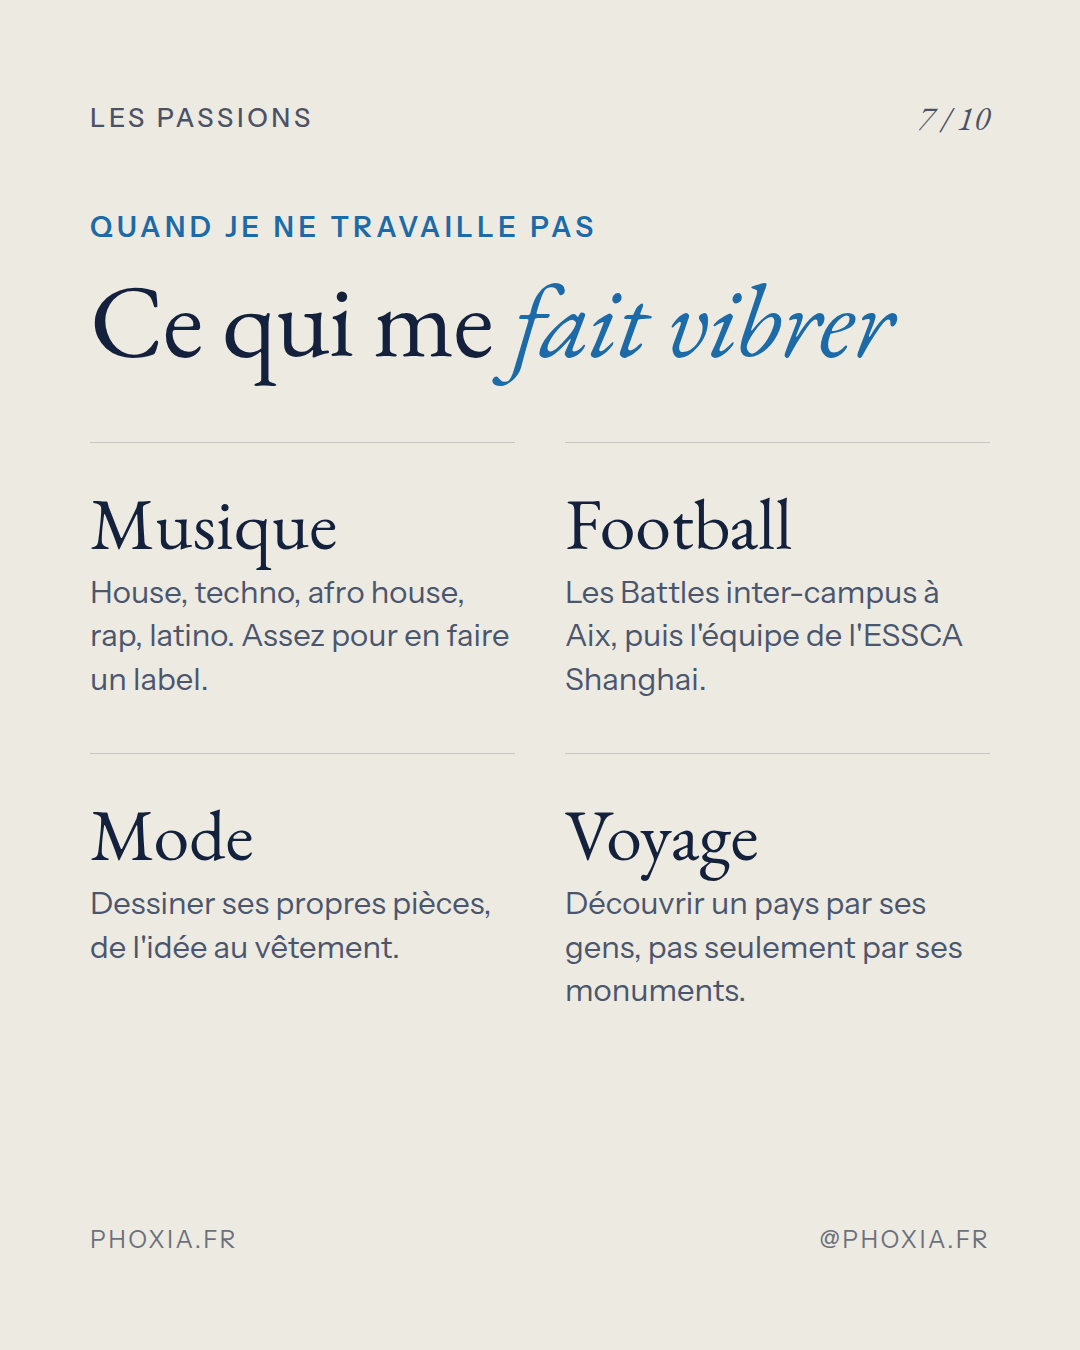
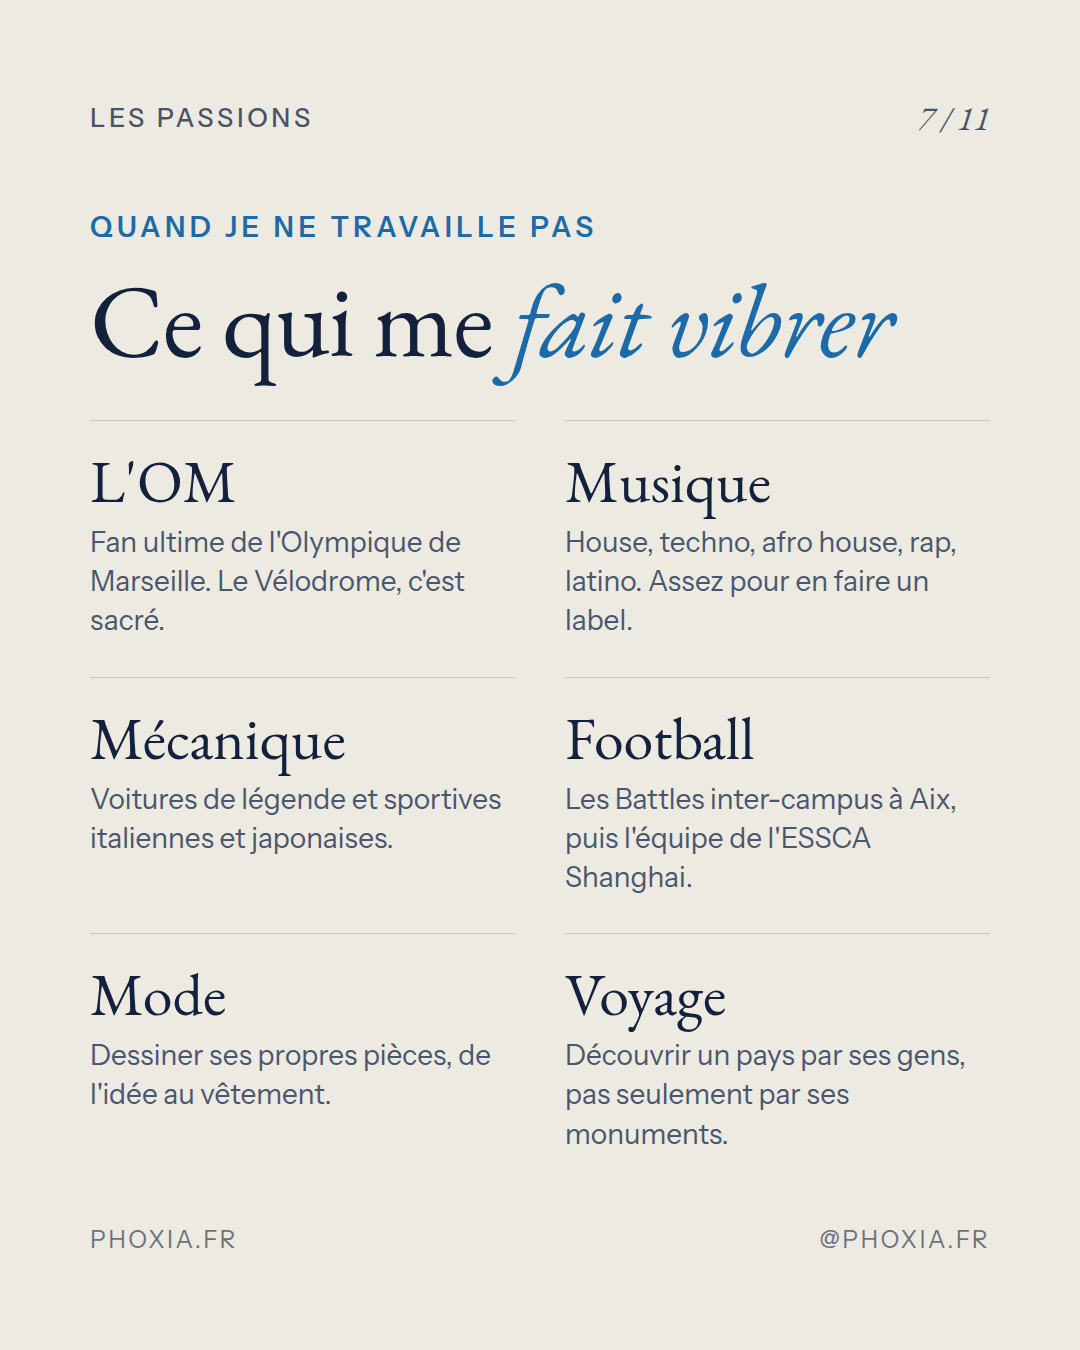
Carrousel Instagram : passions OM et mécanique, slide des rêves, objectif liberté
Claude-Session: https://claude.ai/code/session_01TMTnMu3aN2J2VFEdaEERUD

diff --git a/instagram/presentation-mathieu/carrousel.html b/instagram/presentation-mathieu/carrousel.html
@@ -62,7 +62,7 @@
   #s5 h2 { font-size: 92px; }
   #s4 .liste { margin-top: 44px; gap: 22px; }
   #s4 .ligne { padding-top: 22px; }
-  #s9 .liste { margin-top: 40px; gap: 24px; }
+  #s10 .liste { margin-top: 40px; gap: 24px; }
   .projet { background: rgba(237,234,225,.07); border: 1.5px solid rgba(237,234,225,.18); border-radius: 26px; padding: 30px 32px; }
   .projet img { width: 92px; height: 92px; border-radius: 20px; object-fit: cover; }
   .projet h3 { font-family: var(--serif); font-weight: 500; font-size: 54px; margin-top: 18px; line-height: 1; }
@@ -79,10 +79,14 @@
   .pays { font-size: 27px; line-height: 1.55; margin-top: 30px; opacity: .8; }
 
   /* Passions */
-  .passions { display: grid; grid-template-columns: 1fr 1fr; gap: 0 50px; margin-top: 70px; }
-  .passion { padding: 44px 0 52px; border-top: 1.5px solid rgba(20,33,61,.18); }
-  .passion b { font-family: var(--serif); font-size: 72px; font-weight: 400; line-height: 1; display: block; }
-  .passion span { font-size: 31px; line-height: 1.4; display: block; margin-top: 12px; color: var(--encre-doux); }
+  .passions { display: grid; grid-template-columns: 1fr 1fr; gap: 0 50px; margin-top: 48px; }
+  .passion { padding: 30px 0 36px; border-top: 1.5px solid rgba(20,33,61,.18); }
+  .passion b { font-family: var(--serif); font-size: 60px; font-weight: 400; line-height: 1; display: block; }
+  .passion span { font-size: 28px; line-height: 1.4; display: block; margin-top: 12px; color: var(--encre-doux); }
+
+  .slide--rouge { background: #0E1830; }
+  #s8 h2 em { color: #E8946B; }
+  #s8 .ligne b { color: #E8946B; }
 
   /* Citation */
   blockquote { font-family: var(--serif); font-style: italic; font-size: 56px; line-height: 1.15; margin-top: 44px; padding-left: 40px; border-left: 4px solid var(--azur-clair); }
@@ -104,7 +108,7 @@
 <section class="slide couv" id="s1">
   <img src="../../assets/img/equipe/mathieu.jpg" alt="Mathieu Barthélémy">
   <div class="contenu">
-    <div class="haut"><span>@phoxia.fr</span><span class="num">1 / 10</span></div>
+    <div class="haut"><span>@phoxia.fr</span><span class="num">1 / 11</span></div>
     <h1>Qui se cache derrière <em>Phoxia&nbsp;?</em></h1>
     <p class="intro">Mathieu Barthélémy, fondateur. Parcours, projets, voyages et les raisons d'une aventure entrepreneuriale.</p>
     <div class="bas"><span>Marseille</span><span>Glissez →</span></div>
@@ -113,7 +117,7 @@
 
 <!-- 2. Parcours -->
 <section class="slide" id="s2">
-  <div class="haut"><span>Parcours</span><span class="num">2 / 10</span></div>
+  <div class="haut"><span>Parcours</span><span class="num">2 / 11</span></div>
   <p class="kicker">Trois campus, trois continents</p>
   <h2>Un parcours <em>tourné vers le large</em></h2>
   <div class="liste">
@@ -127,7 +131,7 @@
 
 <!-- 3. Terrain -->
 <section class="slide slide--sable" id="s3">
-  <div class="haut"><span>Parcours</span><span class="num">3 / 10</span></div>
+  <div class="haut"><span>Parcours</span><span class="num">3 / 11</span></div>
   <p class="kicker">Avant l'IA, le terrain</p>
   <h2>Indépendant <em>depuis 2017</em></h2>
   <p class="intro">50 000 € de chiffre d'affaires générés en indépendant. Une pratique construite mission après mission.</p>
@@ -141,7 +145,7 @@
 
 <!-- 4. Intérêts -->
 <section class="slide" id="s4">
-  <div class="haut"><span>Intérêts dans la vie</span><span class="num">4 / 10</span></div>
+  <div class="haut"><span>Intérêts dans la vie</span><span class="num">4 / 11</span></div>
   <p class="kicker">Ce qui me fait avancer</p>
   <h2>Comprendre, <em>relier,</em> transmettre</h2>
   <div class="liste">
@@ -155,7 +159,7 @@
 
 <!-- 5. Projets -->
 <section class="slide" id="s5">
-  <div class="haut"><span>Les projets</span><span class="num">5 / 10</span></div>
+  <div class="haut"><span>Les projets</span><span class="num">5 / 11</span></div>
   <p class="kicker">Au-delà de Phoxia</p>
   <h2>Quatre univers, <em>un même cap</em></h2>
   <div class="projets">
@@ -169,7 +173,7 @@
 
 <!-- 6. Voyages -->
 <section class="slide slide--blanc" id="s6">
-  <div class="haut"><span>Les voyages</span><span class="num">6 / 10</span></div>
+  <div class="haut"><span>Les voyages</span><span class="num">6 / 11</span></div>
   <p class="kicker">Phavels</p>
   <h2><em>16 pays,</em> 4 continents</h2>
   <div class="grille">
@@ -186,11 +190,13 @@
 
 <!-- 7. Passions -->
 <section class="slide slide--sable" id="s7">
-  <div class="haut"><span>Les passions</span><span class="num">7 / 10</span></div>
+  <div class="haut"><span>Les passions</span><span class="num">7 / 11</span></div>
   <p class="kicker">Quand je ne travaille pas</p>
   <h2>Ce qui me <em>fait vibrer</em></h2>
   <div class="passions">
+    <div class="passion"><b>L'OM</b><span>Fan ultime de l'Olympique de Marseille. Le Vélodrome, c'est sacré.</span></div>
     <div class="passion"><b>Musique</b><span>House, techno, afro house, rap, latino. Assez pour en faire un label.</span></div>
+    <div class="passion"><b>Mécanique</b><span>Voitures de légende et sportives italiennes et japonaises.</span></div>
     <div class="passion"><b>Football</b><span>Les Battles inter-campus à Aix, puis l'équipe de l'ESSCA Shanghai.</span></div>
     <div class="passion"><b>Mode</b><span>Dessiner ses propres pièces, de l'idée au vêtement.</span></div>
     <div class="passion"><b>Voyage</b><span>Découvrir un pays par ses gens, pas seulement par ses monuments.</span></div>
@@ -198,9 +204,24 @@
   <div class="bas"><span>phoxia.fr</span><span>@phoxia.fr</span></div>
 </section>
 
+<!-- 8. Rêves -->
+<section class="slide slide--rouge" id="s8">
+  <div class="haut"><span>Les rêves</span><span class="num">8 / 11</span></div>
+  <p class="kicker">Dream cars, dream bikes, dream life</p>
+  <h2>Rêver <em>en grand</em></h2>
+  <div class="liste">
+    <div class="ligne"><b>Cars</b><div><strong>Ferrari 250 GTO &amp; Aston Martin DB5</strong><span>Deux légendes, deux voitures de rêve.</span></div></div>
+    <div class="ligne"><b>Bikes</b><div><strong>Ducati Panigale V4 &amp; Yamaha R1</strong><span>L'Italie et le Japon, à fond.</span></div></div>
+    <div class="ligne"><b>Ultime</b><div><strong>Piloter une Formule 1</strong><span>Le rêve absolu de tout passionné de vitesse.</span></div></div>
+    <div class="ligne"><b>Ibiza</b><div><strong>DJ international</strong><span>Mixer sur les plus grandes scènes d'Ibiza.</span></div></div>
+  </div>
+  <blockquote style="border-left-color:#E8946B">Objectif de vie : <span style="color:#E8946B">la liberté.</span></blockquote>
+  <div class="bas"><span>phoxia.fr</span><span>@phoxia.fr</span></div>
+</section>
+
 <!-- 8. Pourquoi Phoxia -->
-<section class="slide" id="s8">
-  <div class="haut"><span>Pourquoi Phoxia</span><span class="num">8 / 10</span></div>
+<section class="slide" id="s9">
+  <div class="haut"><span>Pourquoi Phoxia</span><span class="num">9 / 11</span></div>
   <p class="kicker">L'origine du nom</p>
   <h2>De Phocée <em>à l'IA</em></h2>
   <p class="intro">Phocée, la cité grecque fondatrice de Marseille, a toujours regardé au-delà de l'horizon pour grandir. Phoxia porte cette idée : un ancrage fort à Marseille, un regard forgé entre la France, le Québec et l'Asie.</p>
@@ -212,12 +233,12 @@
 </section>
 
 <!-- 9. Pourquoi l'entrepreneuriat -->
-<section class="slide slide--blanc" id="s9">
-  <div class="haut"><span>Pourquoi entreprendre</span><span class="num">9 / 10</span></div>
+<section class="slide slide--blanc" id="s10">
+  <div class="haut"><span>Pourquoi entreprendre</span><span class="num">10 / 11</span></div>
   <p class="kicker">Le choix de l'entrepreneuriat</p>
   <h2>Construire <em>à mon nom</em></h2>
   <div class="liste">
-    <div class="ligne"><b>Liberté</b><div><strong>Choisir ses projets et ses clients</strong><span>Indépendant depuis 2017, je n'ai jamais voulu revenir en arrière.</span></div></div>
+    <div class="ligne"><b>Liberté</b><div><strong>Mon objectif de vie : la liberté</strong><span>Choisir mes projets et mes clients. Indépendant depuis 2017.</span></div></div>
     <div class="ligne"><b>Impact</b><div><strong>Voir le résultat de son travail</strong><span>Chaque mission se mesure en temps et en argent gagnés.</span></div></div>
     <div class="ligne"><b>Équipe</b><div><strong>Faire grandir les autres</strong><span>Une équipe internationale et des étudiants ESSCA embarqués.</span></div></div>
   </div>
@@ -227,8 +248,8 @@
 </section>
 
 <!-- 10. CTA -->
-<section class="slide cta" id="s10">
-  <div class="haut"><span>@phoxia.fr</span><span class="num">10 / 10</span></div>
+<section class="slide cta" id="s11">
+  <div class="haut"><span>@phoxia.fr</span><span class="num">11 / 11</span></div>
   <img class="rond" src="../../assets/img/equipe/mathieu-rond.jpg" alt="" style="margin-top:70px">
   <h2>On en <em>parle&nbsp;?</em></h2>
   <p class="intro">Un projet IA, une question sur l'entrepreneuriat, ou juste envie d'échanger : trente minutes suffisent.</p>

diff --git a/instagram/presentation-mathieu/legende.md b/instagram/presentation-mathieu/legende.md
@@ -20,7 +20,15 @@ Phoxia (conseil IA), Phoxy (label musical), Phothes (mode), Phavels (carnet de v
 16 pays, 4 continents. Du Canada au Sri Lanka, en passant par le Maroc et la Thaïlande.
 
 🎧 Passions
-Musique house, techno, afro house, rap, latino. Football. Mode. Voyage.
+Fan ultime de l'OM 💙🤍. Musique house, techno, afro house, rap, latino. Mécanique. Football. Mode. Voyage.
+
+🏎 Rêver en grand
+Dream cars : Ferrari 250 GTO et Aston Martin DB5.
+Dream bikes : Ducati Panigale V4 et Yamaha R1.
+Le rêve ultime : piloter une F1.
+Et un jour, mixer comme DJ international à Ibiza.
+
+🕊 Objectif de vie : la liberté.
 
 ⚓ Pourquoi Phoxia ?
 Phocée, la cité grecque fondatrice de Marseille, a toujours regardé au-delà de l'horizon. Phoxia porte cette idée : un ancrage marseillais, un regard international, et une IA qui sert le métier avant l'outil.
@@ -32,4 +40,4 @@ Pour choisir mes projets, voir l'impact de mon travail et faire grandir une équ
 
 Là où les idées prennent le large.
 
-#Phoxia #AgenceIA #IntelligenceArtificielle #Entrepreneuriat #Entrepreneur #Marseille #StartupFrance #ESSCA #UniversiteLaval #Fondateur #IA #Automatisation #Voyage #Freelance #MadeInMarseille
+#Phoxia #AgenceIA #IntelligenceArtificielle #Entrepreneuriat #Entrepreneur #Marseille #StartupFrance #ESSCA #UniversiteLaval #Fondateur #IA #Automatisation #Voyage #Freelance #MadeInMarseille #OM #TeamOM #Ferrari #AstonMartin #Ducati #YamahaR1 #F1 #Ibiza
